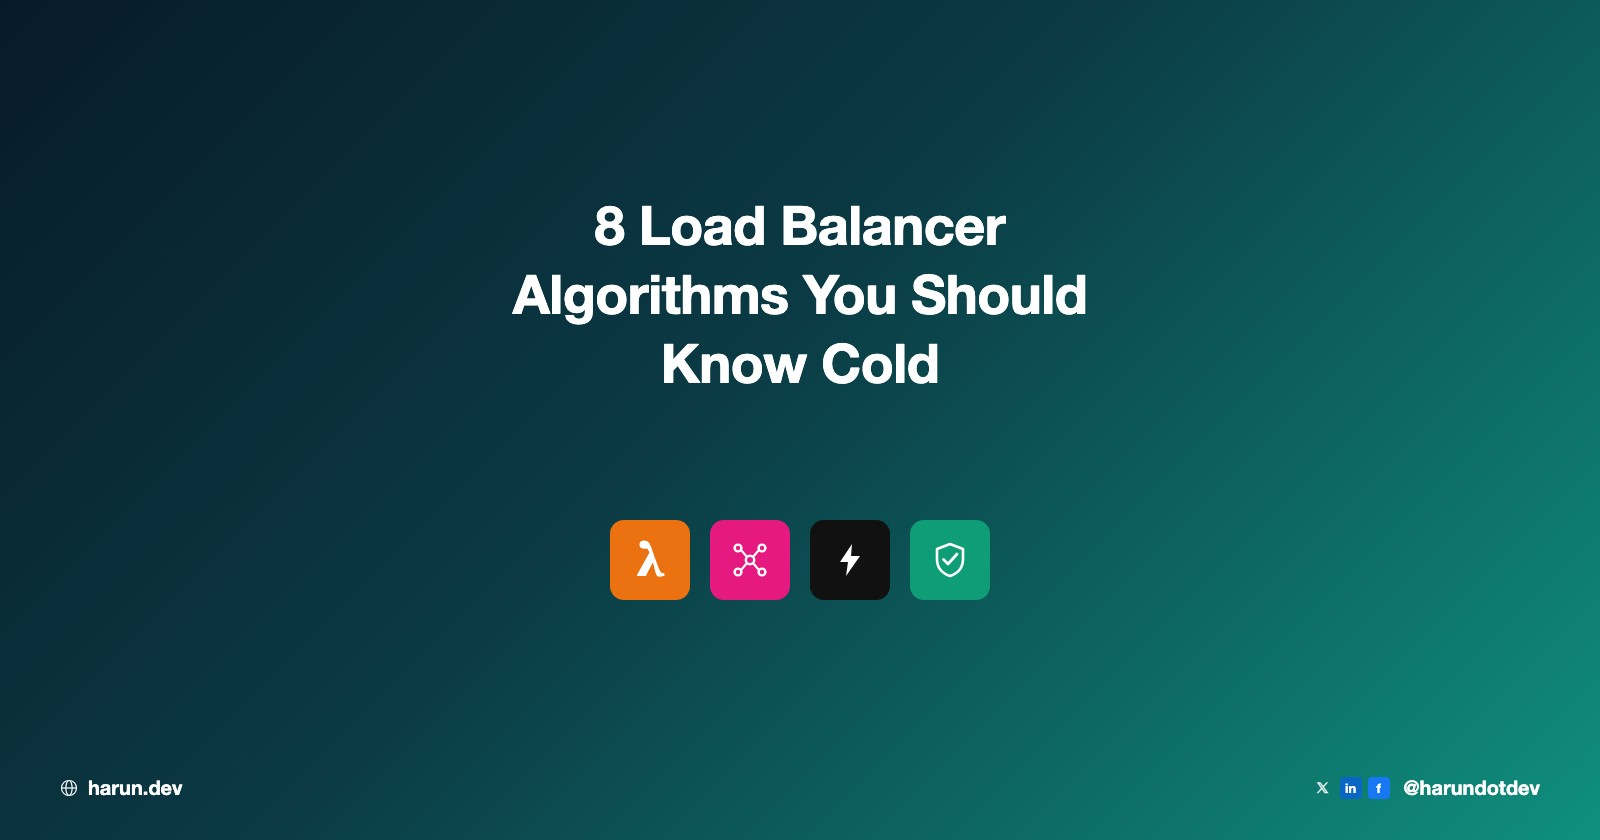
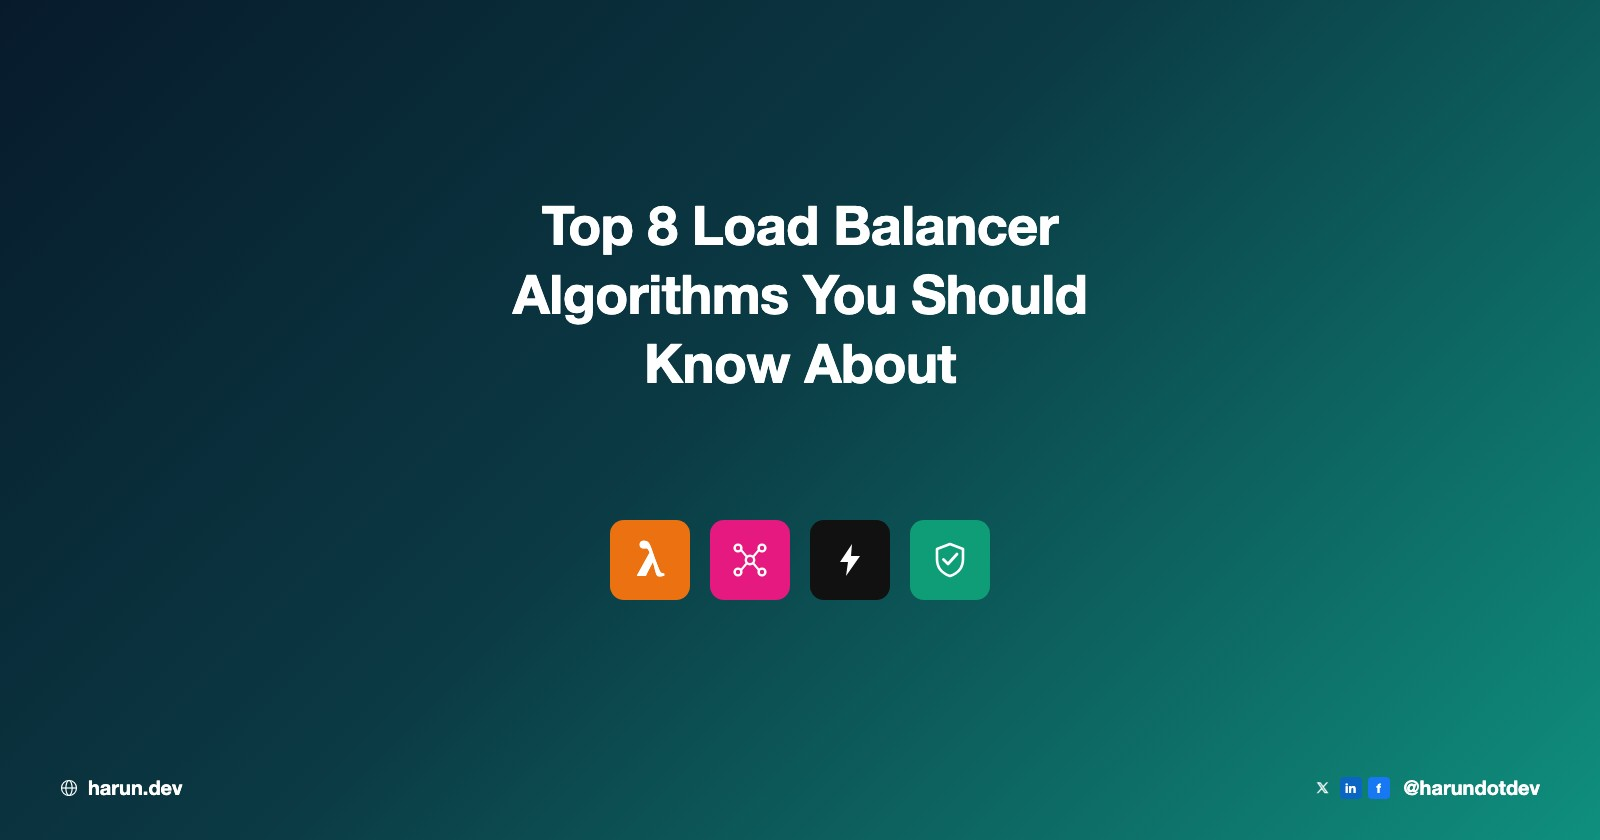
Rename the load balancer draft to Top 8.
The digit stays in the headline, and the wording matches how the post should be introduced.

Changed region(s): [[0.3438, 0.2476, 0.6562, 0.3095], [0.4062, 0.4024, 0.5938, 0.4643]]

diff --git a/tests/Feature/InteractiveBlogDraftsTest.php b/tests/Feature/InteractiveBlogDraftsTest.php
@@ -31,7 +31,7 @@ class InteractiveBlogDraftsTest extends TestCase
             );
 
             if ($slug === 'eight-load-balancer-algorithms') {
-                $this->assertSame('8 Load Balancer Algorithms You Should Know Cold', $post['title']);
+                $this->assertSame('Top 8 Load Balancer Algorithms You Should Know About', $post['title']);
                 foreach ([
                     'round-robin',
                     'weighted-round-robin',

diff --git a/resources/blog/posts/eight-load-balancer-algorithms.md b/resources/blog/posts/eight-load-balancer-algorithms.md
@@ -1,5 +1,5 @@
 ---
-title: "8 Load Balancer Algorithms You Should Know Cold"
+title: "Top 8 Load Balancer Algorithms You Should Know About"
 slug: "eight-load-balancer-algorithms"
 brief: "8 ways a balancer picks the next server. Each one has its own picture, under the section that explains it."
 publishedAt: "2099-06-01T18:00:00.000Z"
